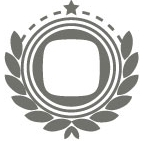
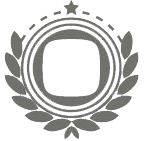
Fixed platinum badges breaking badges display and removed it's white background Story: 691

diff --git a/src/main/java/seng302/gui/UserSummaryController.java b/src/main/java/seng302/gui/UserSummaryController.java
@@ -326,17 +326,21 @@ public class UserSummaryController {
         String ribbonPath = "/images/ribbonAward.png";
         String lockImagePath = "/images/lock.png";
         String badgeImagePath = "/images/" + b.imageName + ".png";
+        String platBadgePath = "/images/plat-badge.png";
 
         ImageView rView = new ImageView(imageCache.retrieve(ribbonPath, 70));
         rView.fitHeightProperty().setValue(70);
         rView.fitWidthProperty().setValue(70);
-
 
         ImageView bView = new ImageView(imageCache.retrieve(badgeImagePath, 26));
         bView.fitHeightProperty().setValue(26);
         bView.fitWidthProperty().setValue(26);
 
         ImageView lockView = new ImageView(imageCache.retrieve(lockImagePath, 40));
+
+        ImageView pView = new ImageView(imageCache.retrieve(platBadgePath, 70));
+        pView.fitHeightProperty().setValue(70);
+        pView.fitWidthProperty().setValue(70);
 
         ColorAdjust badgeEffect = new ColorAdjust();
         if (b.isLocked()) {
@@ -355,9 +359,7 @@ public class UserSummaryController {
             badgeEffect.setSaturation(1);
             badgeEffect.setBrightness(0.1);
         } else if (b.currentBadgeType == 4) {
-            Image platImage = new Image("/images/plat-badge.png");
-            rView.setImage(platImage);
-//            b.badgeProgress = b.badgeLevels.get(3);
+            rView = pView;
         }
         rView.setEffect(badgeEffect);
 
@@ -369,12 +371,15 @@ public class UserSummaryController {
         Label progressDesc = new Label();
         ProgressBar progressBar = new ProgressBar();
 
-        StackPane badgeStack = new StackPane(rView, bView);
+        StackPane badgeStack;
         if (b.currentBadgeType >= 4) {
+            badgeStack = new StackPane(pView, bView);
+
             badgeStack.getChildren().get(1).setTranslateY(-1);
             progressDesc.setText("Complete");
             progressBar.setProgress(1);
         } else {
+            badgeStack = new StackPane(rView, bView);
             badgeStack.getChildren().get(1).setTranslateY(-13);
             progressDesc.setText((int) b.badgeProgress + " out of " + b.badgeLevels.get(b.currentBadgeType));
             progressBar.setProgress(b.badgeProgress/b.badgeLevels.get(b.currentBadgeType));

diff --git a/src/main/java/seng302/gui/TutorStatsController.java b/src/main/java/seng302/gui/TutorStatsController.java
@@ -525,8 +525,8 @@ public class TutorStatsController {
         lockView.fitWidthProperty().setValue(40);
 
         ImageView pView = new ImageView(UserSummaryController.imageCache.retrieve(platBadgePath, 70));
-        bView.fitHeightProperty().setValue(70);
-        bView.fitWidthProperty().setValue(70);
+        pView.fitHeightProperty().setValue(70);
+        pView.fitWidthProperty().setValue(70);
 
         ColorAdjust badgeEffect = new ColorAdjust();
         if (b.currentBadgeType == 0) {
@@ -546,7 +546,6 @@ public class TutorStatsController {
             badgeEffect.setBrightness(0.1);
         } else if (b.currentBadgeType == 4) {
             rView = pView;
-//            b.badgeProgress = b.badgeLevels.get(3);
         }
         rView.setEffect(badgeEffect);
 

diff --git a/src/main/java/seng302/managers/BadgeManager.java b/src/main/java/seng302/managers/BadgeManager.java
@@ -156,7 +156,7 @@ public class BadgeManager {
 
 
             ArrayList<Badge> badges = new ArrayList<>();
-            badges.add(new Badge("Correct Questions", tutor, "Number of questions correctly answered", musicianBadges, 0, 0, tutorImages.get(tutor), 10));
+            badges.add(new Badge("Correct Questions", tutor, "Number of questions correctly answered", questionBadges, 0, 0, tutorImages.get(tutor), 10));
             badges.add(new Badge("Completed Sessions", tutor, "Number of tutor sessions completed", sessionBadges, 0, 0, tutorImages.get(tutor), 10));
             badges.add(new Badge("100% Sessions", tutor, "Number of 100% tutor sessions", sessionBadges, 0, 0, tutorImages.get(tutor), 15));
 
